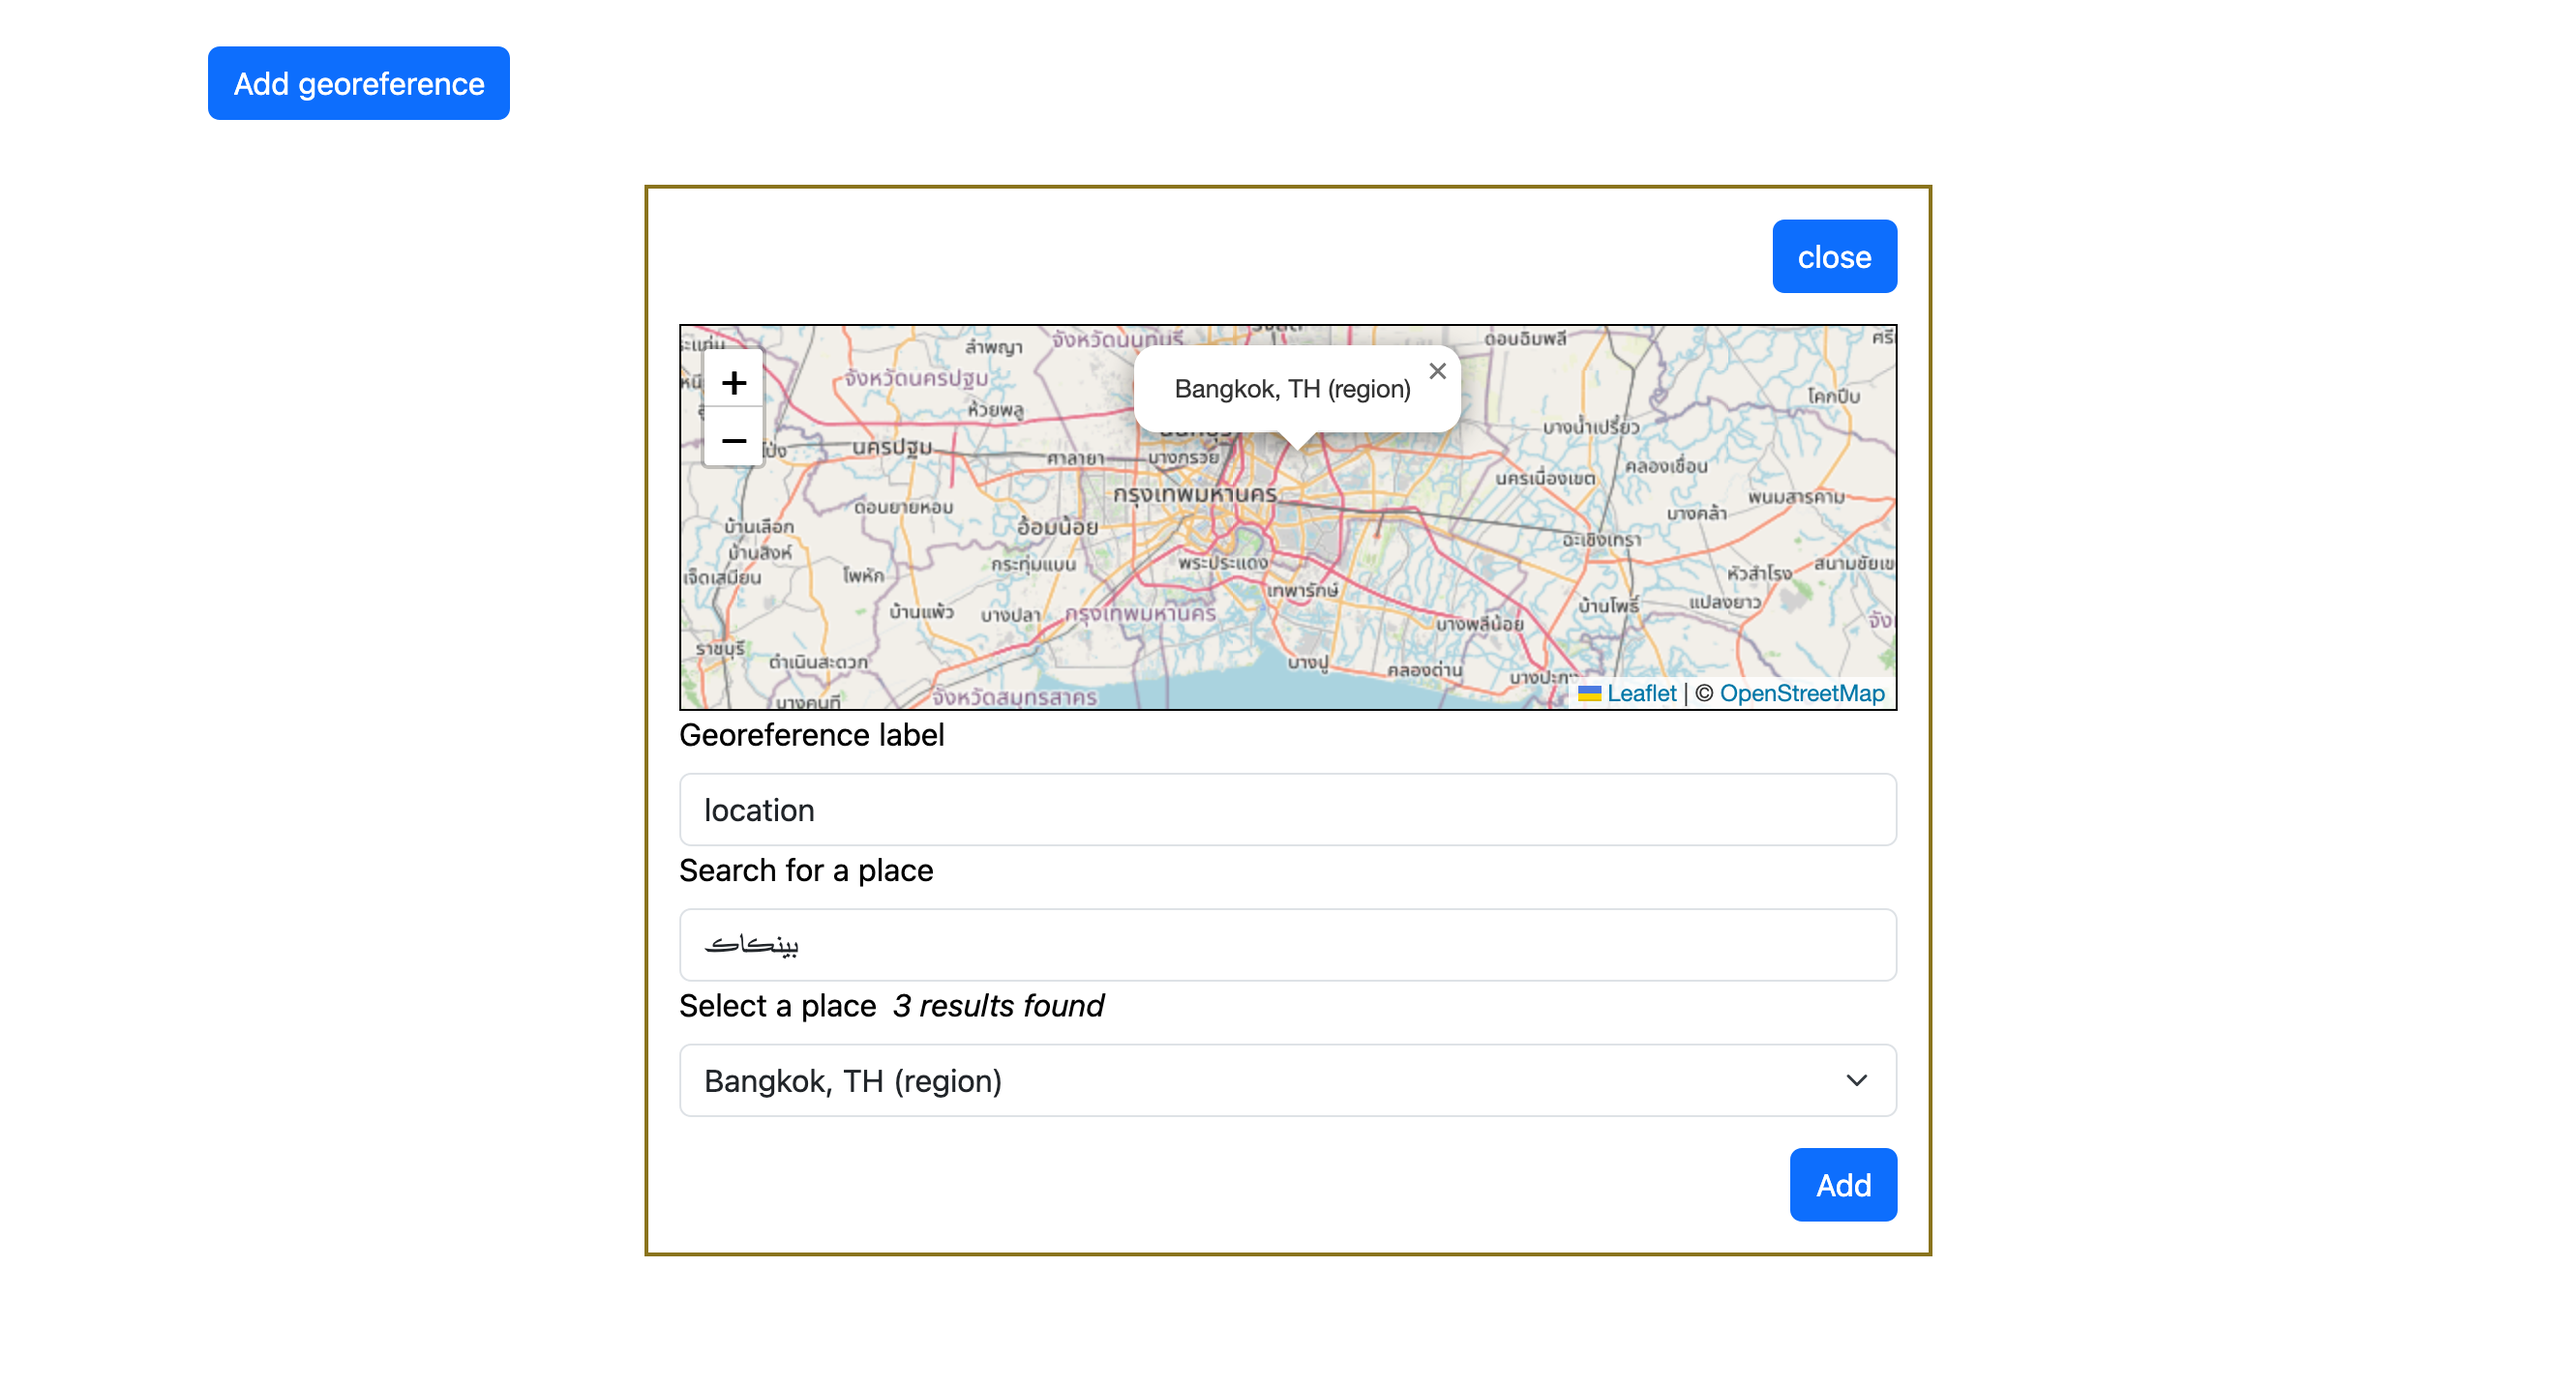
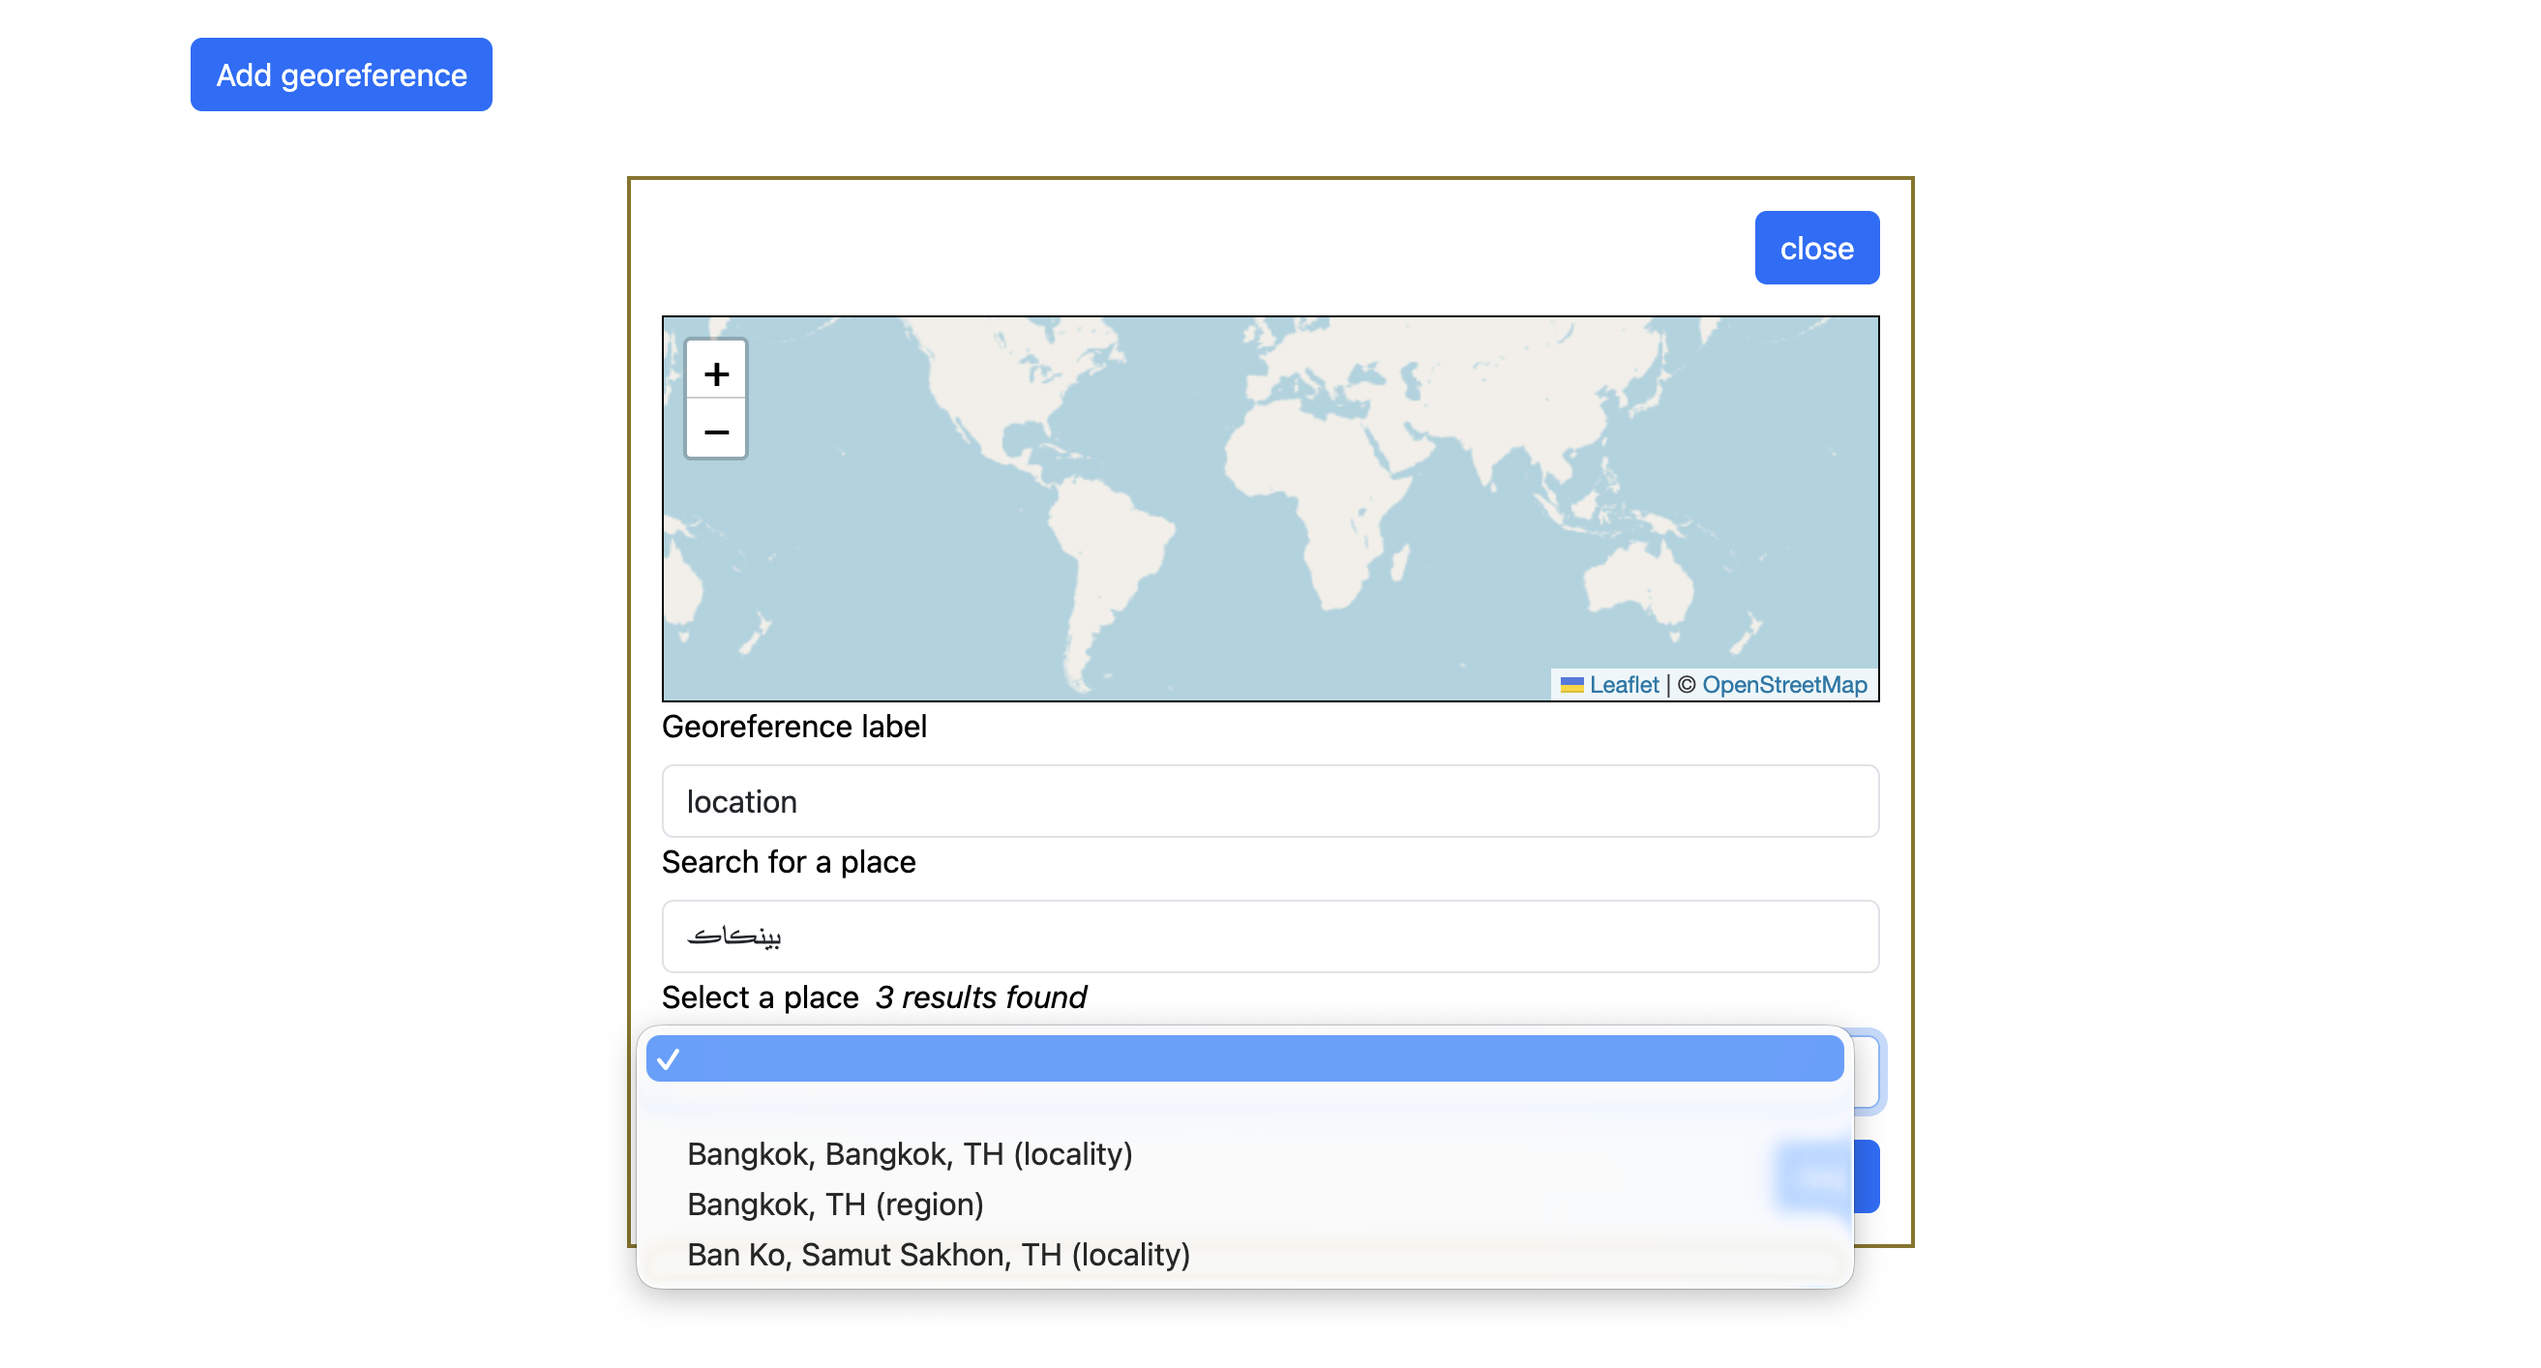
docs

Changed region(s): [[0.2498, 0.1245, 0.7494, 0.9646], [0.0625, 0.0, 0.2186, 0.0934], [0.7182, 0.6535, 0.7494, 0.6846]]

diff --git a/javascript/README.md b/javascript/README.md
@@ -9,6 +9,7 @@ The sfomuseum.geocoder package bundles several small, reusable components that l
 * `sfomuseum.geocoder.geotag` – open a modal dialog that only lets you pick a place (no label).
 * `L.control.geocoder` – a Leaflet control that opens the geotag dialog when clicked.
 
+Bundled an minified version of these packages, and their corresponding CSS files, are available in the [dist](../dist) folder.
 ## Using the `sfomuseum.geocoder` package
 
 ```
@@ -91,7 +92,23 @@ sfomuseum.geocoder.query(query_params).then((rsp) => {
 </html>
 ```
 
-For a detailed example consult [http/www/demo/georeference.html](../http/www/demo/georeference.html). To see a live version [start the `wof-coarse-geocoder-server` with "demo" mode enabled](../README.md#wof-coarse-geocoder-server) and visit `http://localhost:8080/georeference.html` in your web browser.
+For a detailed example consult [http/www/demo/georeference.html](../http/www/demo/georeference.html). To see a live version [start the `wof-coarse-geocoder-server` with "demo" mode enabled](../README.md#wof-coarse-geocoder-server) and visit `http://localhost:8080/georeference.html` in your web browser. Here are some screenshots of that application:
+
+![](docs/images/sfomuseum-geocoder-js-georeference.png)
+
+Basic launch page with a button for adding a new georeference.
+
+![](docs/images/sfomuseum-geocoder-js-georeference-choose-1.png)
+
+...
+
+![](docs/images/sfomuseum-geocoder-js-georeference-choose-2.png)
+
+...
+
+![](docs/images/sfomuseum-geocoder-js-georeference-choose-3.png)
+
+...
 
 ## Using the `sfomuseum.geocoder.geotag` package
 
@@ -173,4 +190,28 @@ For a detailed example consult [http/www/demo/georeference.html](../http/www/dem
 </html>
 ```
 
-For a detailed example consult [http/www/demo/geotag.html](../http/www/demo/geotag.html). html). To see a live version [start the `wof-coarse-geocoder-server` with "demo" mode enabled](../README.md#wof-coarse-geocoder-server) and visit `http://localhost:8080/geotag.html` in your web browser.
+For a detailed example consult [http/www/demo/geotag.html](../http/www/demo/geotag.html). html). To see a live version [start the `wof-coarse-geocoder-server` with "demo" mode enabled](../README.md#wof-coarse-geocoder-server) and visit `http://localhost:8080/geotag.html` in your web browser. Here are some screenshots of that application:
+
+![](docs/images/sfomuseum-geocoder-js-geotag-leaflet-control.png)
+
+...in the top right-hand corner.
+
+![](docs/images/sfomuseum-geocoder-js-geotag-leaflet-modal.png)
+
+...
+
+![](docs/images/sfomuseum-geocoder-js-geotag-select.png)
+
+...
+
+![](docs/images/sfomuseum-geocoder-js-geotag-choose-1.png)
+
+...
+
+![](docs/images/sfomuseum-geocoder-js-geotag-choose-2.png)
+
+...
+
+![](docs/images/sfomuseum-geocoder-js-geotag-choose-3.png)
+
+...
